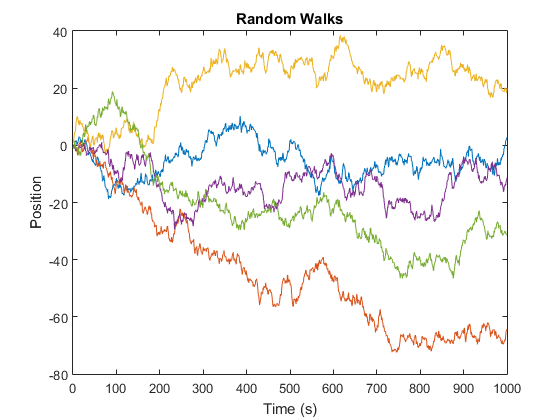
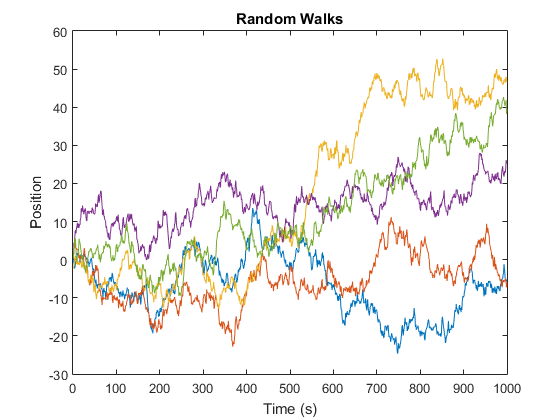
Tweaked.
More strings are correctly captured now.

diff --git a/examples/enjaden_example.html b/examples/enjaden_example.html
@@ -21,7 +21,7 @@ pre {
 });</script><script type="text/javascript" src="http://cdn.mathjax.org/mathjax/latest/MathJax.js?config=TeX-AMS-MML_HTMLorMML"></script></head><body><h1>Example MATLAB File for <code>enjaden</code></h1><p>This is an example of a MATLAB file which publishes nicely to Jade via
 the <code>enjaden</code> tool. It shows what types of paragraph styles and inline
 markup are possible, like <strong>bold</strong> and <em>italic</em> markup.</p><p>New paragraphs will each get their own &lt;p&gt; tag.</p><p>It shows <a href="https://github.com/tuckermcclure/m2jade">links</a>. Links are only
-captured when they look like the above. Note that < this > will note show
+captured when they look like the above. Note that < this > will not show
 up as a link, and neither will <strong>this</strong>.</p><p>There are numerous paragraph styles, such as code blocks:</p><pre><code>code
 line 2: code
 line 3: code</code></pre><p>and preformatted text:</p><pre>PRE
@@ -44,11 +44,11 @@ xlabel('Time');
 ylabel('Position');
 title('Random Walks');
 </code></pre><pre class="output"><code>ans =
-    2.8769
--64.2437
-   20.1303
--11.3588
-  -31.2417</code></pre><figure><img src="img/enjaden_example_01.png"></figure><h2>Second Section</h2><p>In this section, we'll highlight that you don't <strong>always</strong> have to skip a
+   -5.1937
+   -6.0350
+   46.7917
+   25.2979
+   39.5703</code></pre><figure><img src="img/enjaden_example_01.png"></figure><h2>Second Section</h2><p>In this section, we'll highlight that you don't <strong>always</strong> have to skip a
 line between the header and paragraph. But we might want to before
 inserting an image so that it will get its own line and not be part of
 the paragraph:</p><p><img src="../ml2jade-logo.png">
@@ -78,7 +78,7 @@ a new Jade file.</p><!--| ##### SOURCE BEGIN #####
 | % New paragraphs will each get their own &lt;p&gt; tag.
 | %
 | % It shows <https://github.com/tuckermcclure/m2jade links>. Links are only
-| % captured when they look like the above. Note that < this > will note show
+| % captured when they look like the above. Note that < this > will not show
 | % up as a link, and neither will <strong>this</strong>.
 | %
 | % There are numerous paragraph styles, such as code blocks:

diff --git a/examples/ml2jade_example.html b/examples/ml2jade_example.html
@@ -36,13 +36,11 @@ xlabel('Time');
 ylabel('Position');
 title('Random Walks');
 </code></pre><pre class="output"><code>ans =
-
-  -15.0067
-  -28.0781
-   27.7777
-   -9.9073
-   47.0203
-   </code></pre><figure><img src="img/ml2jade_example_01.png"></figure><h2>Section 2: Running <code>ml2jade</code></h2><p>We can include code that we <strong>don't</strong> want to execute as 
+    2.8769
+-64.2437
+   20.1303
+-11.3588
+  -31.2417</code></pre><figure><img src="img/ml2jade_example_01.png"></figure><h2>Section 2: Running <code>ml2jade</code></h2><p>We can include code that we <strong>don't</strong> want to execute as 
 normal. For instance, here's how to call <code>ml2jade</code> with
 this file name and put the output in the <code>jade</code> directory.</p><pre><code>ml2jade('ml2jade_example.jade', 'jade');</code></pre><p>We don't want to evaluate the line above when publishing because 
 that would make an endless loop. We use a <code>pre: code.</code>

diff --git a/enjaden.m b/enjaden.m
@@ -138,7 +138,7 @@ function success = enjaden(file_in_name, out_dir, template_name, evaluate, rende
         foid = fopen([out_dir filesep out_file], 'w');
 
         % Normalize line endings for posix.
-        text = [regexprep(original_text, '\r', '') sprintf('\n%%%%\n')];
+        text = [regexprep(original_text, '\r', '') sprintf('\n\n%%%%\n')];
 
         % Look for the title.
         title = regexp(text, '^[\n\r]*%%\ *(.*?)[\n\r]', 'tokens');
@@ -188,12 +188,13 @@ function success = enjaden(file_in_name, out_dir, template_name, evaluate, rende
             section = text(stops(k)+1:starts(k+1)-1);
 
             % Look for a blurb and bit of code.
-            results = regexp(section, '^(%.*?)\n([^%].*)', 'tokens');
-            if ~isempty(results)
+            % results = regexp(section, '^(%.*?)\n([^%].*)', 'tokens');
+            blurb = regexp(section, '^(%.*?)(\n[^%]|$)', 'tokens');
+            code  = regexp(section, '(^|\n)([^%].*)', 'tokens');
+            if ~isempty(blurb)
 
                 % Extract the parts.
-                blurb = results{1}{1};
-                code = results{1}{2};
+                blurb = blurb{1}{1};
 
                 % Drop the '% 's.
                 blurb = regexprep(blurb, '(?<=(\n|^))%\ ?', '');
@@ -266,13 +267,11 @@ function success = enjaden(file_in_name, out_dir, template_name, evaluate, rende
 
                 end
 
-            % Otherwise, the code is the whole section.
-            else
-                code = section;
             end
-
+            
             % See if there's code.
-            if ~isempty(code) && any(regexp(code, '\S'))
+            if ~isempty(code) && any(regexp(code{1}{2}, '\S'))
+                code = code{1}{2};
                 code = strtrim(code);
                 code = [block_spaces regexprep(code, ...
                                                '\n', ['\n' block_spaces])];

diff --git a/jade2html.m b/jade2html.m
@@ -31,11 +31,10 @@ function success = jade2html(file)
     success = false;
     
     % Look for Jade on the path.
-    found_jade = false;
-    if exist('jade', 'file')
-        
-        [status, ~] = system('jade --version');
-        found_jade = ~status;
+    [status, ~] = system('jade --version');
+    found_jade = ~status;
+    
+    if found_jade
         
     % Look for Jade where it typically gets installed.
     elseif ~ispc && exist('/usr/local/bin/jade', 'file')

diff --git a/enjaden_example.m b/enjaden_example.m
@@ -7,7 +7,7 @@
 % New paragraphs will each get their own &lt;p&gt; tag.
 %
 % It shows <https://github.com/tuckermcclure/m2jade links>. Links are only
-% captured when they look like the above. Note that < this > will note show
+% captured when they look like the above. Note that < this > will not show
 % up as a link, and neither will <strong>this</strong>.
 %
 % There are numerous paragraph styles, such as code blocks:

diff --git a/README.md b/README.md
@@ -7,7 +7,7 @@ This tool does three things:
 
 It works like MATLAB's built-in <code>publish</code> function, but produces very clean Jade syntax, which can be easily combined with templates or stylesheets.
 
-Jade files aren't meant to be viewed themselves; a tool renders them to HTML (either statically or as part of a webserver). <code>ml2jade</code> is useful, for instance, if you maintain a series of MATLAB examples for a website. You can write MATLAB scripts and publish them directly to Jade using your custom template, or you can write your .jade files yourself, automatically evaluate the code blocks inside of it, and put the output on the web server.
+Jade files aren't meant to be viewed themselves; a tool renders them to HTML (either statically or as part of a webserver). <code>ml2jade</code> is useful, for instance, if you maintain a series of MATLAB examples for a website. You can write MATLAB scripts and publish them directly to Jade using your custom template, or you can write your .jade files yourself, automatically evaluate the code blocks inside of them and include the results directly in the .jade file, and then put the final files on the web server.
 
 # Examples
 
@@ -15,6 +15,8 @@ To publish a MATLAB script to Jade, call <code>enjaden</code> from within MATLAB
 ```
 enjaden('my_script.m');
 ```
+This will create <code>my_script.jade</code> with all of the command line and figure outputs included under each section of code.
+
 By default, the output directory will be the same directory the file is in. To specify the output directory:
 ```
 enjaden('my_script.m', 'path/to/outputs');
